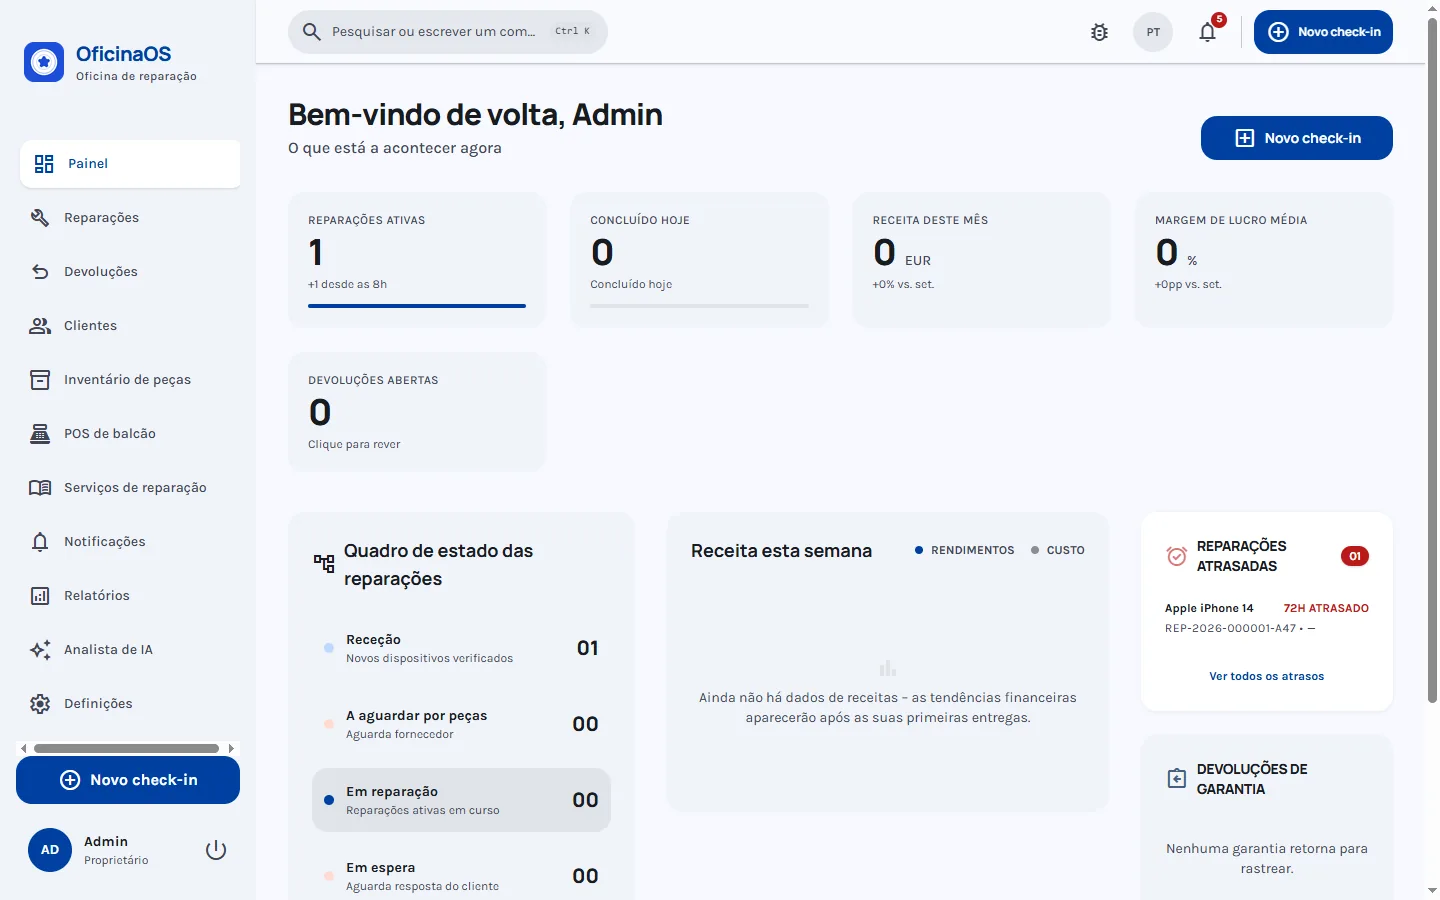
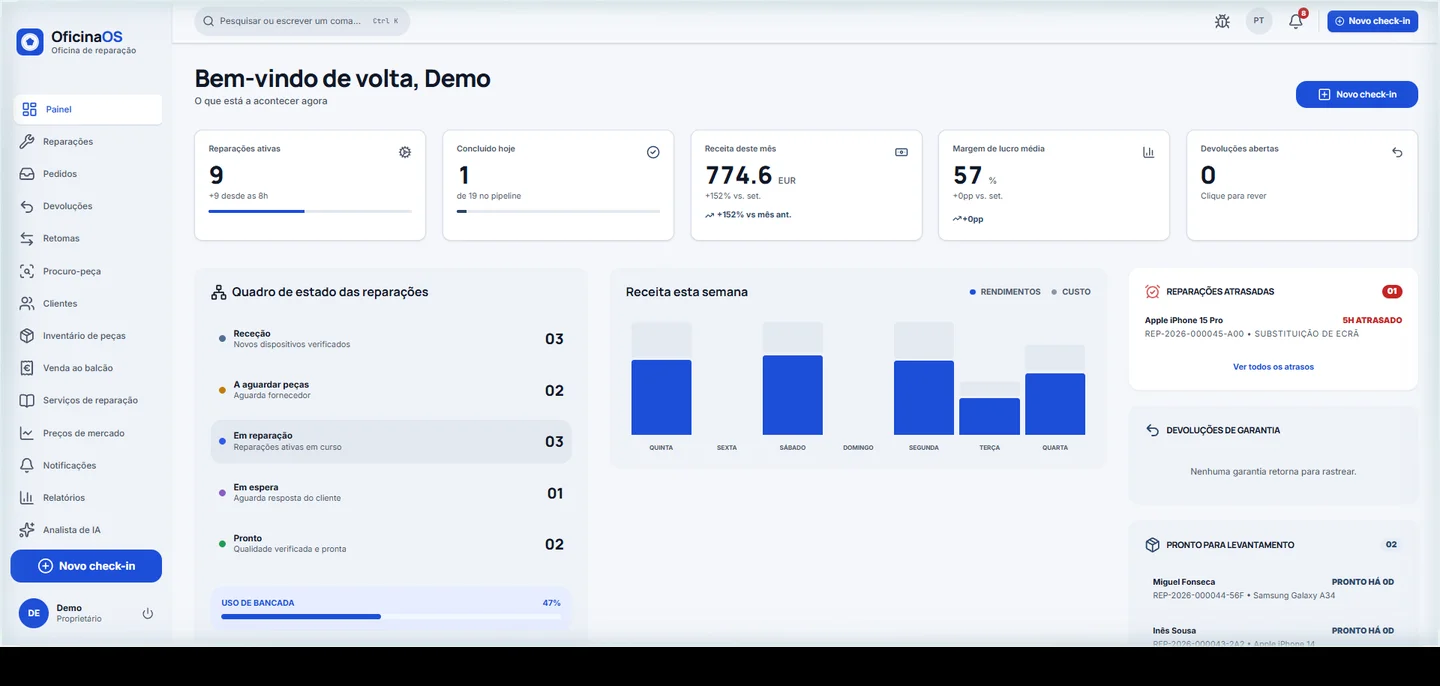
marketing: capturas reais com dados de demo, SmartScreen ilustrado, Android «em breve»
- dashboard/job-detail/tracking.webp refeitas na app v1.0.12 com
  dataset de demonstração (receita, gráfico povoado, orçamento)
- ilustração SmartScreen «Mais informações» → «Executar mesmo assim»
  na secção de instalação, por idioma (pt/en/es)
- card «App Android» passa a «em breve/coming soon/próximamente» —
  não existe APK nativo ainda; PWA já funciona hoje
- Screenshots.astro: aspect-video → 21/10 para não cortar as laterais

Generated with [Devin](https://devin.ai)

diff --git a/src/i18n/es.ts b/src/i18n/es.ts
@@ -87,8 +87,8 @@ export const t: Copy = {
         desc: "Disponible en portugués europeo, inglés, francés y español.",
       },
       {
-        title: "App Android",
-        desc: "La misma app en tablets Android en el mostrador — sin código separado.",
+        title: "App Android — próximamente",
+        desc: "Hoy funciona en el navegador de cualquier móvil o tablet como PWA instalable; la app Android nativa está en camino.",
       },
       {
         title: "Copias de seguridad",
@@ -378,6 +378,13 @@ export const t: Copy = {
           "Pide administrador una sola vez (servicios, firewall y la tarea de copias) y lo hace todo solo. Al final el navegador se abre en http://localhost:4000. Primer acceso: usuario admin, contraseña braindead — la app obliga a cambiar ambos.",
           "Queda un icono en la bandeja junto al reloj: abrir la app, ver el estado, parar/arrancar, hacer una copia. En otros aparatos de la tienda: http://oficinaos.local:4000 — o el código QR en la página Ayuda.",
           "En Linux o macOS no hay instalador — se usa Docker directamente:",
+        ],
+        images: [
+          {
+            src: "/screenshots/smartscreen-es.webp",
+            alt: "Aviso SmartScreen de Windows — «Más información» y después «Ejecutar de todos modos»",
+            caption: "El instalador aún no está firmado — Windows puede mostrar este aviso. «Más información» → «Ejecutar de todos modos».",
+          },
         ],
         code: "git clone https://github.com/braindeadpt/OficinaOS.git\ncd OficinaOS && cp .env.example .env\ndocker compose up -d\ndocker compose exec app bun run db:seed",
         links: [

diff --git a/src/i18n/pt.ts b/src/i18n/pt.ts
@@ -102,8 +102,8 @@ export const t = {
         desc: "Disponível em português europeu, inglês, francês e espanhol.",
       },
       {
-        title: "App Android",
-        desc: "A mesma app em tablets Android no balcão — sem código separado.",
+        title: "App Android — em breve",
+        desc: "Hoje corre no browser de qualquer telemóvel ou tablet como PWA instalável; a app Android nativa está a caminho.",
       },
       {
         title: "Cópias de segurança",
@@ -393,6 +393,13 @@ export const t = {
           "Pede administrador uma só vez (serviços, firewall e a tarefa de backup) e faz tudo sozinho. No fim o browser abre em http://localhost:4000. Primeiro login: utilizador admin, palavra-passe braindead — a app obriga a mudar ambos.",
           "Fica um ícone na bandeja junto ao relógio: abrir a app, ver o estado, parar/arrancar, fazer backup. Noutros aparelhos da loja: http://oficinaos.local:4000 — ou o QR code na página Ajuda.",
           "Em Linux ou macOS não há instalador — usa-se o Docker manualmente:",
+        ],
+        images: [
+          {
+            src: "/screenshots/smartscreen-pt.webp",
+            alt: "Aviso SmartScreen do Windows — «Mais informações» e depois «Executar mesmo assim»",
+            caption: "O instalador ainda não é assinado — o Windows pode mostrar este aviso. «Mais informações» → «Executar mesmo assim».",
+          },
         ],
         code: "git clone https://github.com/braindeadpt/OficinaOS.git\ncd OficinaOS && cp .env.example .env\ndocker compose up -d\ndocker compose exec app bun run db:seed",
         links: [

diff --git a/src/i18n/en.ts b/src/i18n/en.ts
@@ -87,8 +87,8 @@ export const t: Copy = {
         desc: "Available in European Portuguese, English, French and Spanish.",
       },
       {
-        title: "Android app",
-        desc: "The same app on Android tablets at the counter — no separate codebase.",
+        title: "Android app — coming soon",
+        desc: "Works today on any phone or tablet browser as an installable PWA; the native Android app is on the way.",
       },
       {
         title: "Backups",
@@ -378,6 +378,13 @@ export const t: Copy = {
           "It asks for admin once (services, firewall and the backup task) and does everything by itself. At the end the browser opens at http://localhost:4000. First login: user admin, password braindead — the app forces you to change both.",
           "A tray icon stays next to the clock: open the app, check status, stop/start, run a backup. On other shop devices: http://oficinaos.local:4000 — or the QR code on the Help page.",
           "On Linux or macOS there's no installer — Docker is used directly:",
+        ],
+        images: [
+          {
+            src: "/screenshots/smartscreen-en.webp",
+            alt: "Windows SmartScreen warning — «More info» then «Run anyway»",
+            caption: "The installer isn't signed yet — Windows may show this warning. «More info» → «Run anyway».",
+          },
         ],
         code: "git clone https://github.com/braindeadpt/OficinaOS.git\ncd OficinaOS && cp .env.example .env\ndocker compose up -d\ndocker compose exec app bun run db:seed",
         links: [
